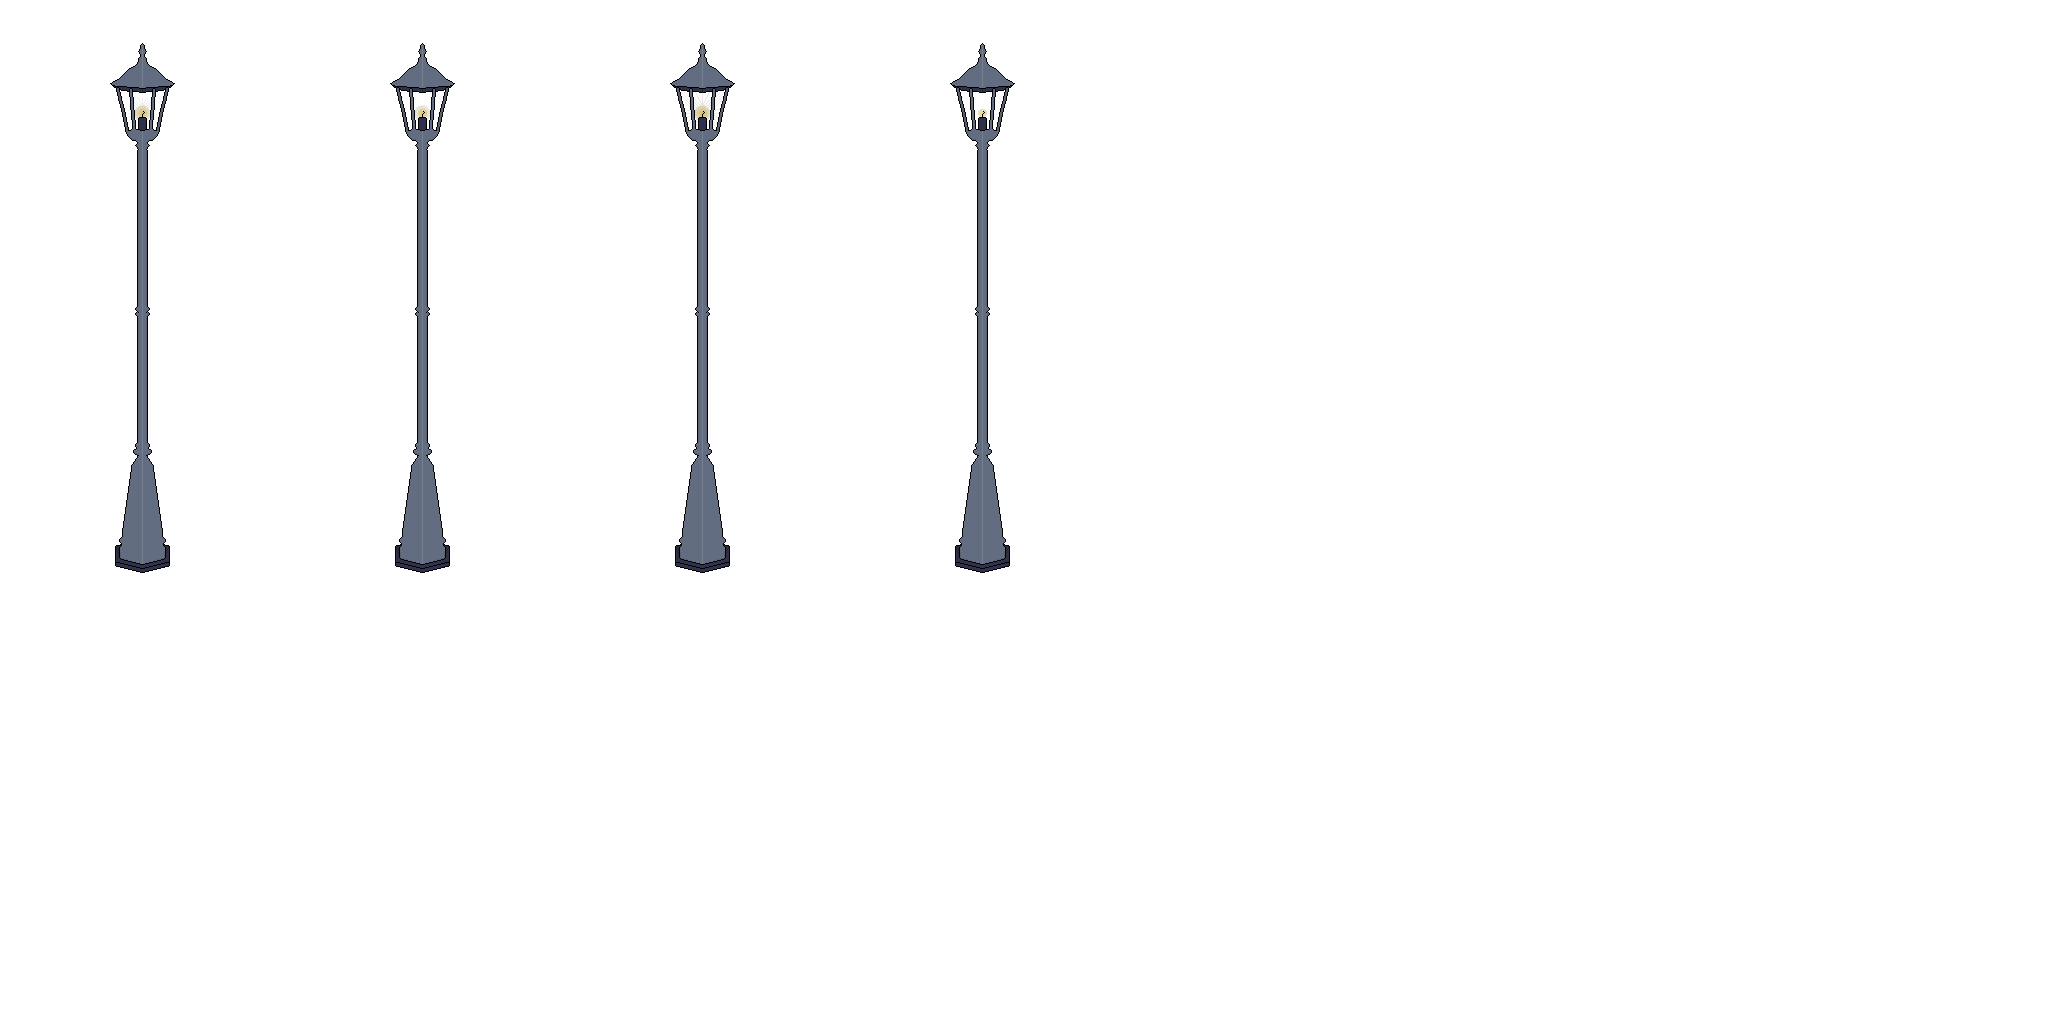
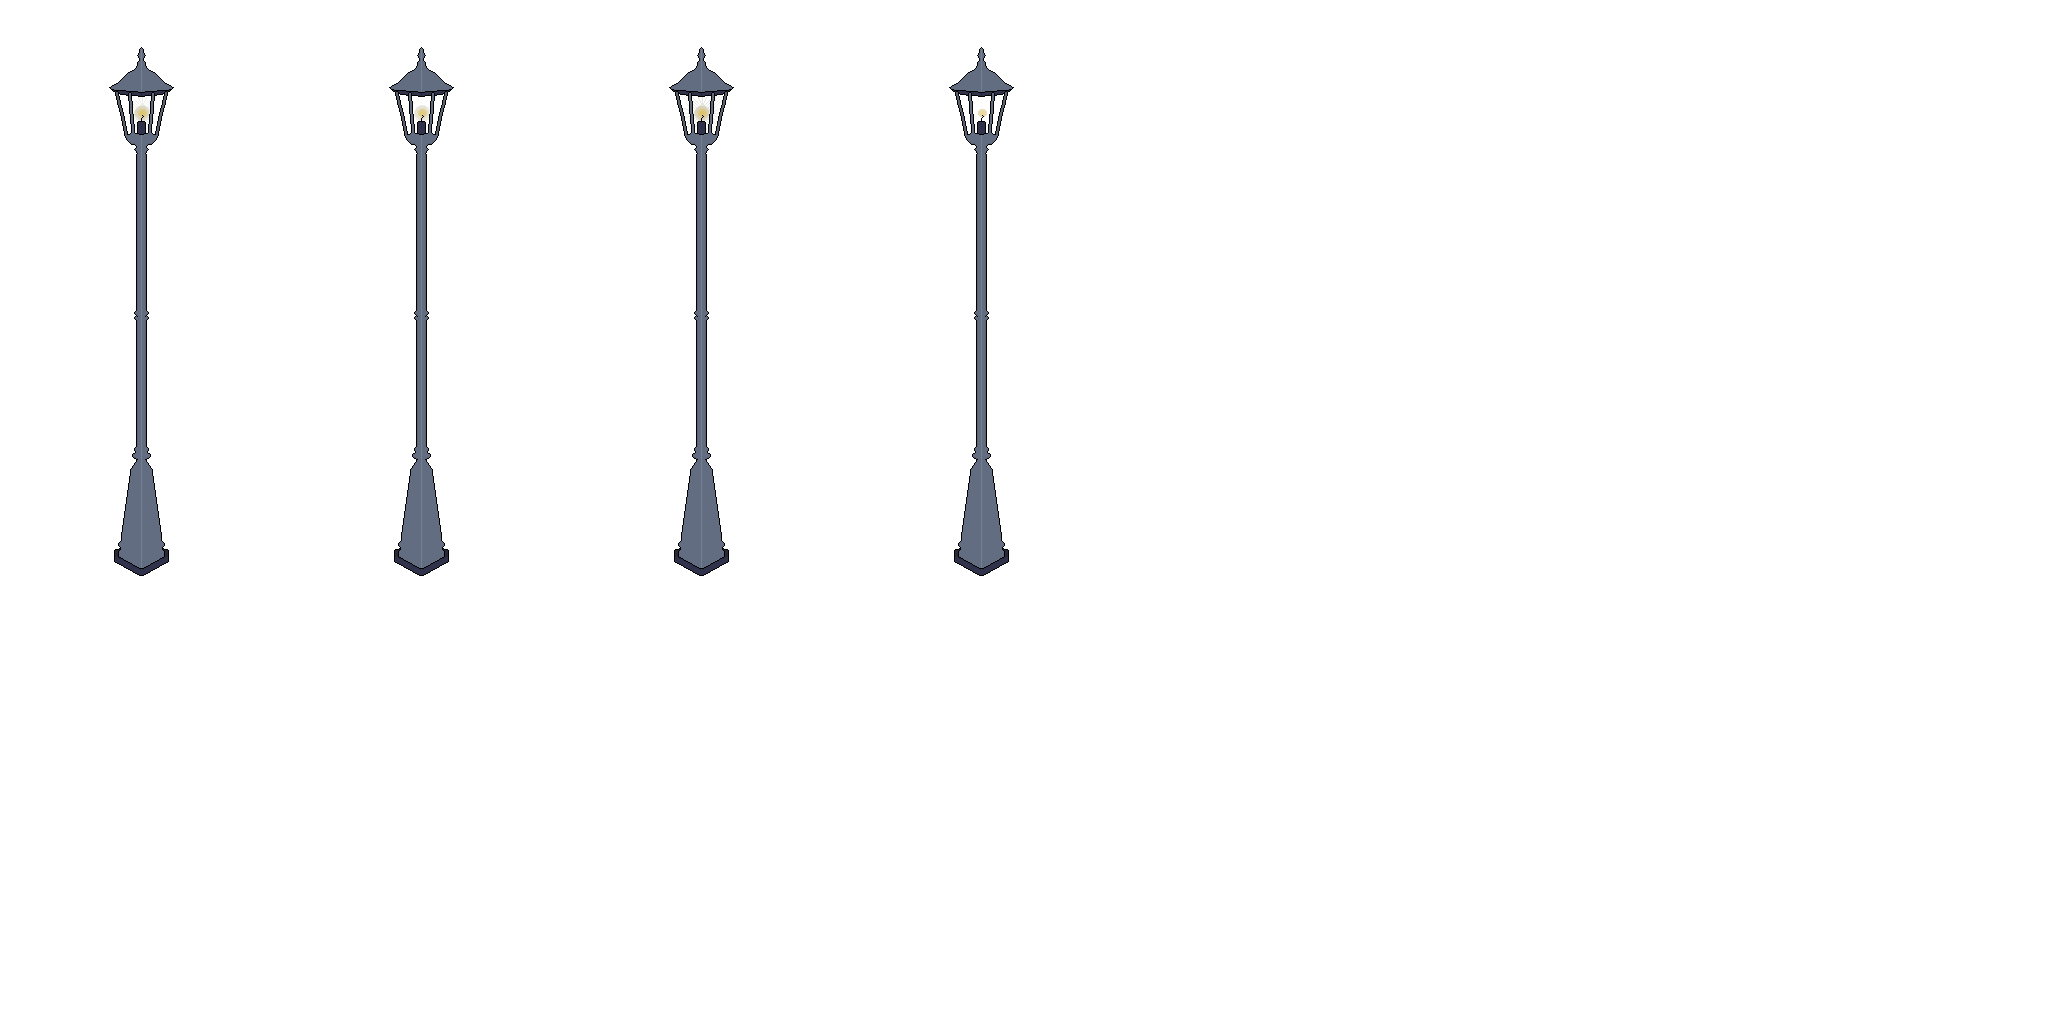
Updated lamp assets, added bush to game

diff --git a/source/core/src/main/com/deco2800/game/entities/factories/CityFeatureFactory.java b/source/core/src/main/com/deco2800/game/entities/factories/CityFeatureFactory.java
@@ -16,6 +16,7 @@ import com.deco2800.game.physics.PhysicsLayer;
 import com.deco2800.game.physics.components.ColliderComponent;
 import com.deco2800.game.physics.components.PhysicsComponent;
 import com.deco2800.game.rendering.AnimationRenderComponent;
+import com.deco2800.game.rendering.TextureRenderComponent;
 import com.deco2800.game.services.ServiceLocator;
 
 public class CityFeatureFactory {
@@ -36,11 +37,11 @@ public class CityFeatureFactory {
      */
     public static Entity createLamp() {
         Entity lamp = createBaseFeature();
-        final float LAMP_SCALE = 1f;
+        final float LAMP_SCALE = 0.5f;
         //Set TextureScalerPoints
-        Vector2 leftPoint = new Vector2(96f, 553f); //Bottom leftmost edge in pixels
-        Vector2 maxX = new Vector2(161f, 576f); //Bottom rightmost edge in pixels
-        Vector2 maxY = new Vector2(136f, 531f);
+        Vector2 leftPoint = new Vector2(112f, 556f); //Bottom leftmost edge in pixels
+        Vector2 maxX = new Vector2(139f, 574f); //Bottom rightmost edge in pixels
+        Vector2 maxY = new Vector2(138f, 540f);
 
         //Create animation component
         TextureAtlas lampAnimationAtlas = ServiceLocator.getResourceService().getAsset("images/lamp.atlas", TextureAtlas.class);
@@ -62,15 +63,15 @@ public class CityFeatureFactory {
                 .addComponent(new TextureScaler(leftPoint, maxX, maxY, baseTexture))
                 .addComponent(mp);
 
-        //Precisely scale width to one tile long
+        //Precisely scale width to half a tile long
         lamp.getComponent(TextureScaler.class).setPreciseScale(LAMP_SCALE, true);
 
         //Set collider
-        float[] points = new float[] {      // Four vertices
-                96f, 553f,       // Vertex 0       3--2
-                161f, 576f,     // Vertex 1      /  /
-                199f, 544f,     // Vertex 2     /  /
-                136f, 531f       // Vertex 3    0--1
+        float[] points = new float[] {
+                112f, 556f,      // Vertex 0       3--2
+                139f, 574f,      // Vertex 1      /  /
+                167f, 552f,      // Vertex 2     /  /
+                138f, 540f       // Vertex 3    0--1
         };
         // Defines a polygon shape on top of a texture region
         PolygonRegion region = new PolygonRegion(new TextureRegion(baseTexture), points, null);
@@ -143,6 +144,48 @@ public class CityFeatureFactory {
     }
 
     public static Entity createCityBush() {
-        return null;
+        Entity bush = createBaseFeature();
+        float BUSH_SCALE = 2f;
+
+        //Set TextureScalerPoints
+        Vector2 leftPoint = new Vector2(18f, 99f); //Bottom leftmost edge in pixels
+        Vector2 maxX = new Vector2(58f, 120f); //Bottom rightmost edge in pixels
+        Vector2 maxY = new Vector2(100f, 56f);
+
+        //Create map component
+        MapComponent mp = new MapComponent();
+        mp.display();
+        mp.setDisplayColour(Color.GREEN);
+
+        //Add components
+        bush.addComponent(new TextureRenderComponent("images/bush.png"))
+            .addComponent(new TextureScaler(leftPoint, maxX, maxY))
+            .addComponent(mp);
+
+        //Precisely scale height to two tiles long
+        bush.getComponent(TextureScaler.class).setPreciseScale(BUSH_SCALE, false);
+
+        //Set collider
+        float[] points = new float[] {      // Four vertices
+                18f, 99f,       // Vertex 0       3--2
+                58f, 120f,      // Vertex 1      /  /
+                142f, 75f,      // Vertex 2     /  /
+                100f, 56f       // Vertex 3    0--1
+        };
+        // Defines a polygon shape on top of a texture region
+        PolygonRegion region = new PolygonRegion(
+                new TextureRegion(ServiceLocator.getResourceService().getAsset("images/bush.png", Texture.class)),
+                points, null);
+        float[] cords = region.getTextureCoords();
+
+        Vector2[] vertices = new Vector2[region.getTextureCoords().length / 2];
+        for (int i = 0; i < cords.length / 2; i++) {
+            vertices[i] = new Vector2(cords[2*i], cords[2*i+1]).scl(bush.getScale().x);
+        }
+        PolygonShape boundingBox = new PolygonShape();  // Collider shape
+        boundingBox.set(vertices);
+        bush.getComponent(ColliderComponent.class).setShape(boundingBox); // Setting Isometric Collider
+
+        return bush;
     }
 }

diff --git a/source/core/src/main/com/deco2800/game/areas/AtlantisGameArea.java b/source/core/src/main/com/deco2800/game/areas/AtlantisGameArea.java
@@ -117,6 +117,7 @@ public class AtlantisGameArea extends GameArea {
             //Features
             "images/waterFeatureDefault.png",
             "images/lampDefault.png",
+            "images/bush.png",
             // TownHall
             "images/base.png",
             "images/level 1 town hall.png",
@@ -660,7 +661,7 @@ public class AtlantisGameArea extends GameArea {
      * Randomly spawns a number of city features around the map
      */
     private void spawnFeatures(BuildingGenerator bg) {
-        int numFeatures = 2; //Total number of features in game
+        int numFeatures = 3; //Total number of features in game
         int currentFeature = 0; //Int corresponding to the next feature to be placed
         int featureOffset = 2; //Space to leave between building and feature
         MapGenerator mg = terrainFactory.getMapGenerator();
@@ -690,6 +691,10 @@ public class AtlantisGameArea extends GameArea {
                     case 0:
                         //Place a water feature
                         feature = CityFeatureFactory.createWaterFeature();
+                        break;
+                    case 1:
+                        //Place a bush
+                        feature = CityFeatureFactory.createCityBush();
                         break;
                     default:
                         //Place a lamp
